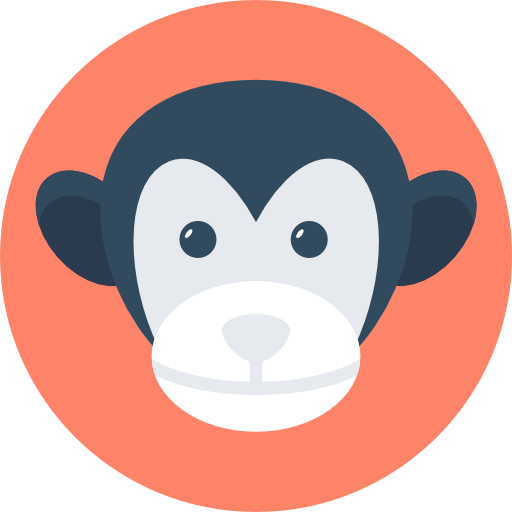
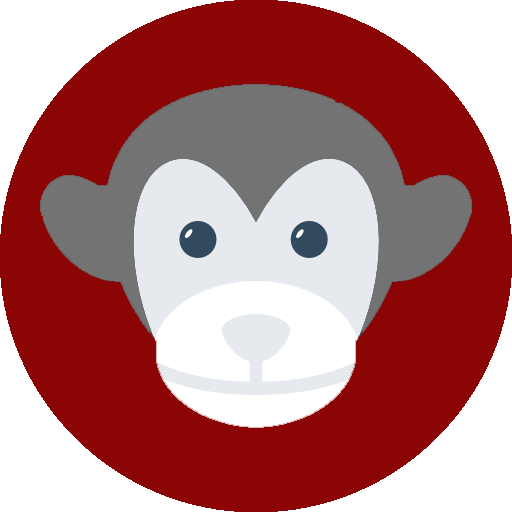
actualización quiénes somos

diff --git a/2quienessomos.php b/2quienessomos.php
@@ -30,14 +30,14 @@
                     </div>
                 <div class="col-xl-4">
                     <center>
-                        <img id="lauraspic"src="imagenes/monkey%20(2).png" alt="Laura"/>
+                        <img id="lauraspic"src="imagenes/monkey%20(2)3.png" alt="Laura"/>
                     </center>
                     <h4>Laura</h4>
                         <p>In enim justo, rhoncus ut, imperdiet a, venenatis vitae, justo. Nullam dictum felis eu pede mollis pretium. Integer tincidunt. Cras dapibus. Vivamus elementum semper nisi. Aenean vulputate eleifend tellus. Aenean leo ligula, porttitor eu, consequat vitae, eleifend ac, enim. Aliquam lorem ante, dapibus in, viverra quis, feugiat a, tellus.</p>
                     </div>
                 <div class="col-xl-4">
                     <center>
-                        <img id="noemispic"src="imagenes/monkey.png" alt="Noemí"/>
+                        <img id="noemispic"src="imagenes/monkey3.png" alt="Noemí"/>
                     </center>
                     <h4>Noemí</h4>
                         <p>Phasellus viverra nulla ut metus varius laoreet. Quisque rutrum. Aenean imperdiet. Etiam ultricies nisi vel augue. Curabitur ullamcorper ultricies nisi. Nam eget dui. Etiam rhoncus. Maecenas tempus, tellus eget condimentum rhoncus, sem quam semper libero, sit amet adipiscing sem neque sed ipsum. Nam quam nunc, blandit vel, luctus pulvinar, hendrerit id, lorem. Maecenas nec odio et ante tincidunt tempus. Donec vitae sapien ut libero venenatis faucibus.</p>
